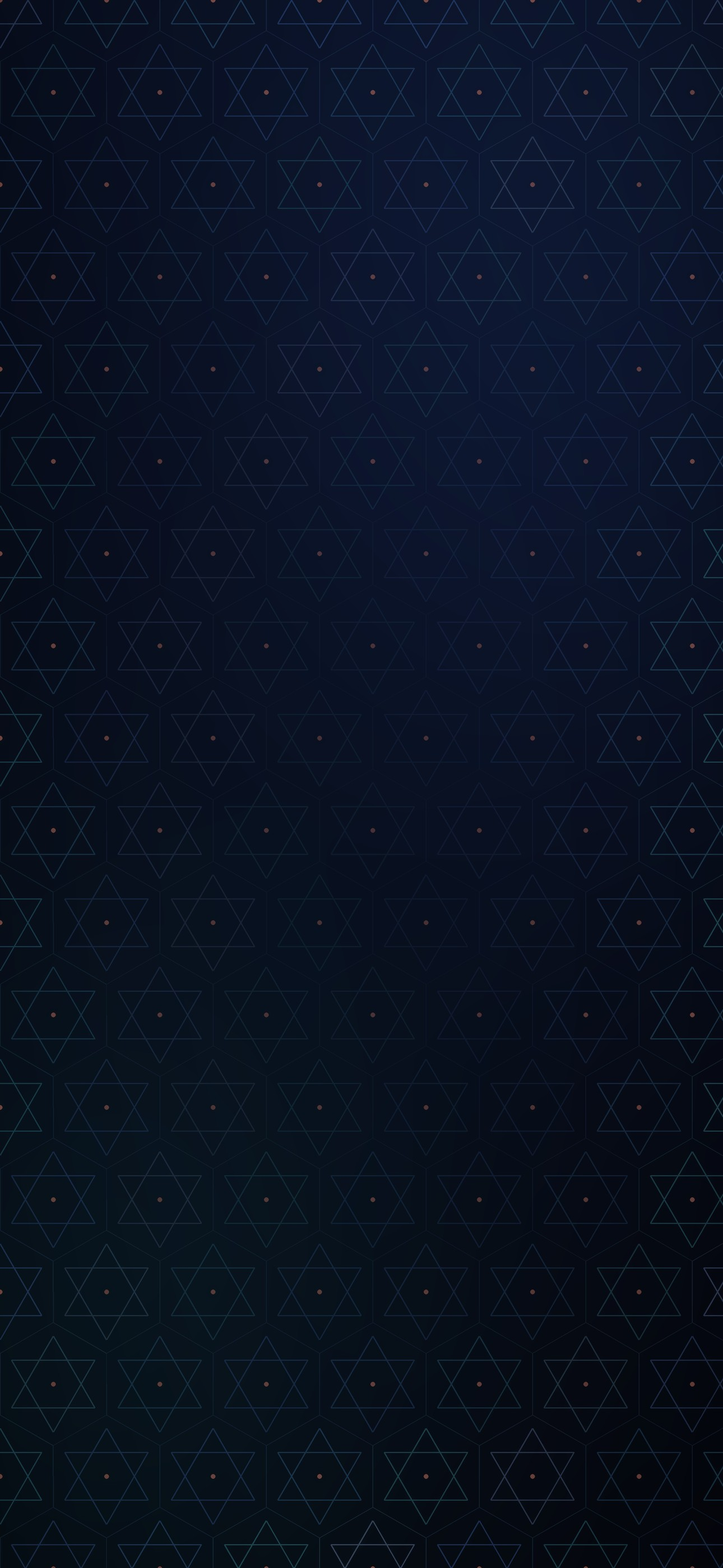
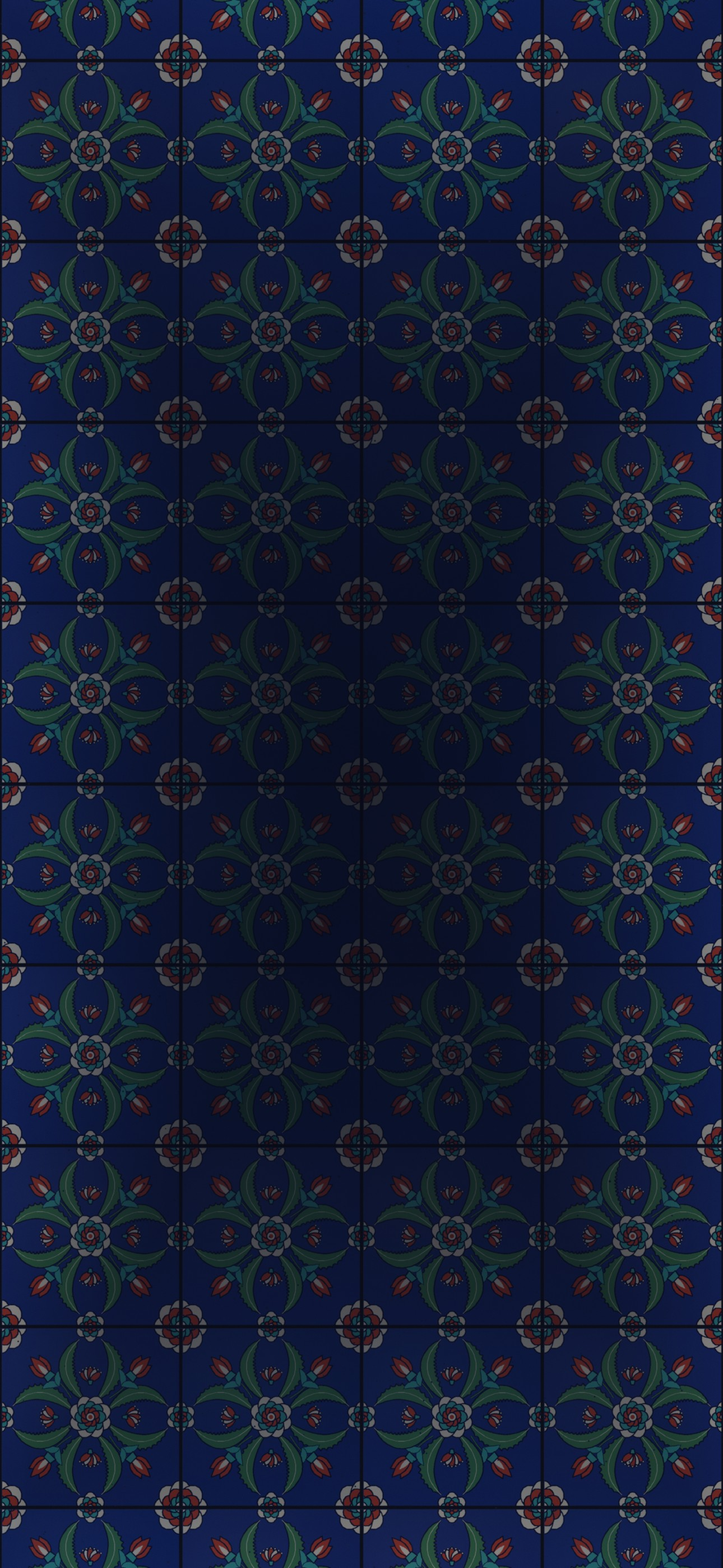
Çini temasını İznik cami çinileriyle yeniden tasarla
Yıldız deseni yerine lale, karanfil, hatayi ve saz yapraklı kare çini
plakaları; derzler, sır parlaklığı ve plaka başına renk farkı.

Claude-Session: https://claude.ai/code/session_0188rHyHdxZ451aQcetemD1N

diff --git a/cini/cini-felsefe.md b/cini/cini-felsefe.md
@@ -1,9 +1,9 @@
 # Çini
 
-*Ateşte sabitlenmiş rengin hareketi.*
+*Cami duvarında dört yüz yıldır bekleyen sırrın hareketi.*
 
-Çini'de renk fırından çıkmıştır ve artık değişmeyecektir. Gece mavisi bir sırın altında kobalt ve firuze çizgiler, birbirine geçmiş iki üçgenden doğan altı kollu yıldızlar hâlinde dizilir. Her yıldızın çevresinde ince bir altıgen çerçeve, merkezinde ise tek bir mercan noktası durur. Mercan, bu sessiz mavinin içindeki tek sıcak nefestir.
+Çini, İznik atölyelerinin en parlak döneminden, cami duvarlarını kaplayan panolardan doğar. Kobalt bir zeminin üzerinde lale, karanfil, hatayi ve tırtıllı saz yaprakları dört yöne doğru açılır. Her plaka tek başına bir bütündür ama asıl desen plakalar yan yana geldiğinde tamamlanır: kenarlardaki yarım penç motifleri komşu plakayla birleşir, köşelerdeki çeyrek hatayiler dört plakanın buluştuğu noktada tam bir çiçeğe dönüşür.
 
-Desen kenarlarda yoğundur, ortaya doğru sırın derinliğinde kaybolur. Yüzey katmanları birbirinden yalnızca bir sır kalınlığı kadar ayrılır. Kaolin beyazı metin göz alıcı değildir, tıpkı pişmiş toprak gibi sakin ve mattır.
+Gerçekçilik ayrıntılarda saklıdır. Her plakanın sırı biraz farklı pişmiştir, kimi bir ton açık, kimi hafif sıcak kalmıştır. Yüzeyde yumuşak bir parlaklık, iğne ucu kadar sır kusurları ve plakaları ayıran koyu derzler vardır. Kontur çizgileri koyu lacivert, renkler İznik'in kendi paletidir: kobalt, firuze, kaolin beyazı, mercan kırmızısı ve yeşil.
 
-Üç vurgu rengi üç ayrı görev üstlenir: kobalt eylemi, mercan seslenmeyi, firuze bağlantıyı işaret eder. Sonuç, bir usta atölyesinde günlerce boyanıp tek seferde fırınlanmış bir pano gibi hissettirmelidir: kusursuz, sabırlı ve geri dönüşü olmayan bir özenin ürünü.
+Duvar ekranın kenarlarında canlıdır, ortaya doğru loş bir cami içi gibi kararır ve sohbete yer açar. Kobalt eylemi, mercan seslenmeyi, firuze bağlantıyı işaret eder. Sonuç, bir nakkaşın kalemiyle çizilip bir ustanın fırınında pişirilmiş, sonra sabırla duvara dizilmiş bir pano gibi hissettirmelidir.

diff --git a/README.md b/README.md
@@ -37,7 +37,7 @@ Tasarım felsefesi: [sedef/sedef-felsefe.md](sedef/sedef-felsefe.md)
 
 ## Çini
 
-Gece mavisi sır, kobalt ve firuze hexagram deseni, mercan kırmızısı noktalar.
+Cami duvarlarındaki İznik çinilerinden: kobalt zemin, lale, karanfil, hatayi ve saz yaprakları.
 
 ![Çini önizleme](cini/cini-onizleme.png)
 
